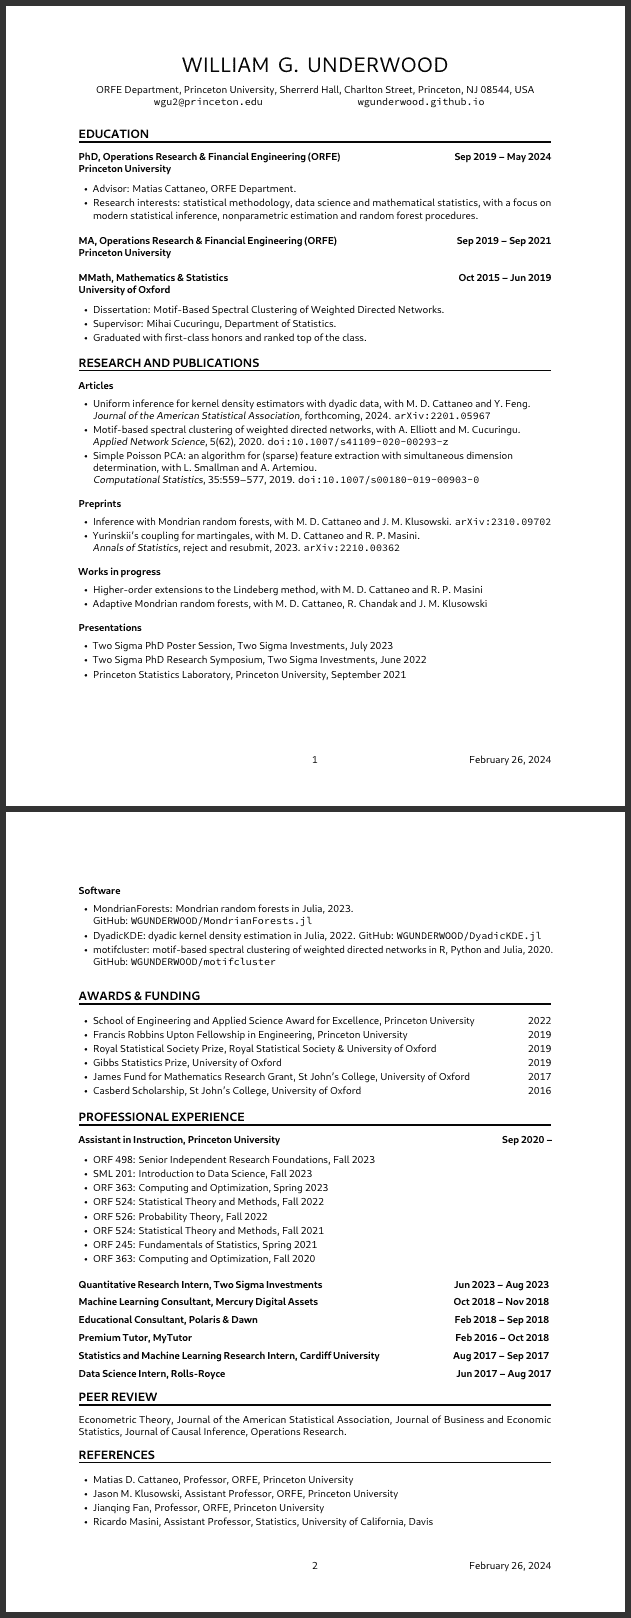
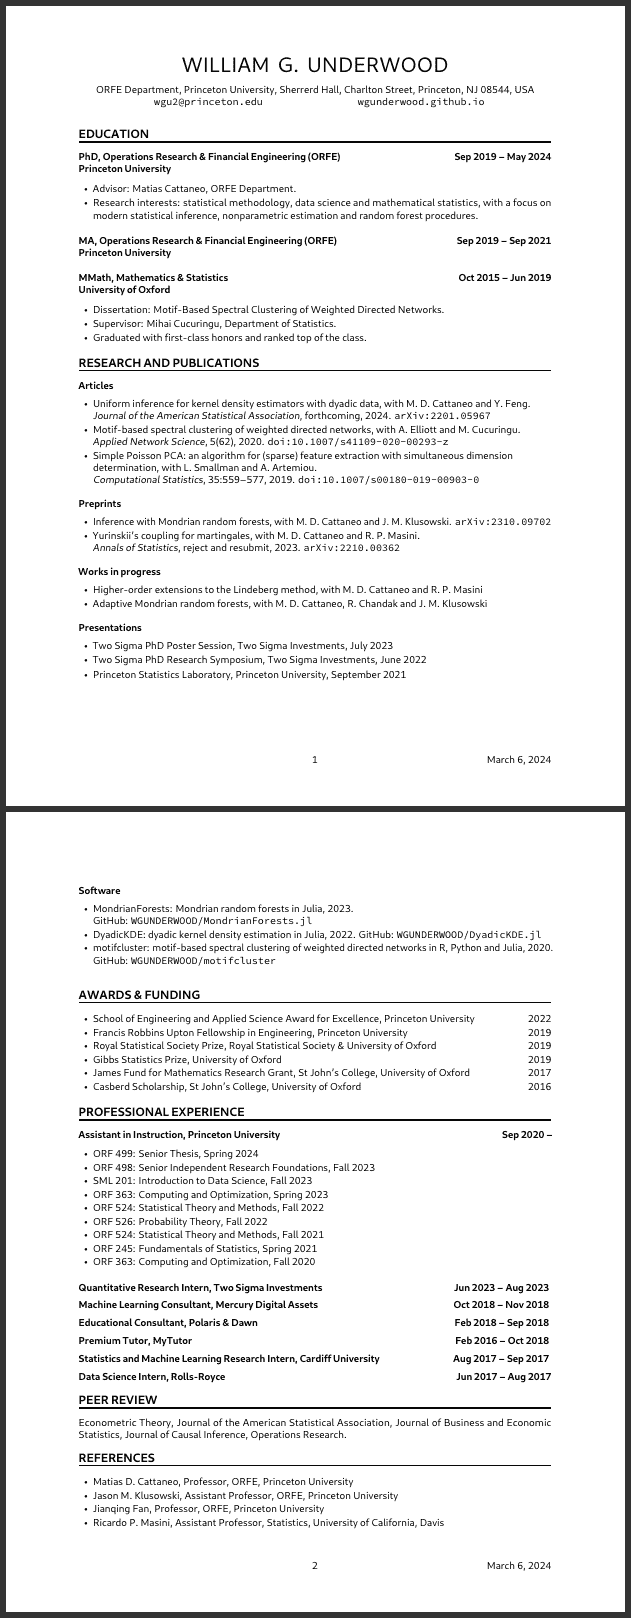
add orf 499 teaching

diff --git a/WGUnderwood.tex b/WGUnderwood.tex
@@ -204,6 +204,11 @@
 \begin{itemize}
 
   \item
+    ORF 499:
+    Senior Thesis,
+    Spring 2024
+
+  \item
     ORF 498:
     Senior Independent Research Foundations,
     Fall 2023
@@ -312,7 +317,7 @@ Operations Research.
     Princeton University
 
   \item
-    Ricardo Masini,
+    Ricardo P.\ Masini,
     Assistant Professor,
     Statistics,
     University of California, Davis
